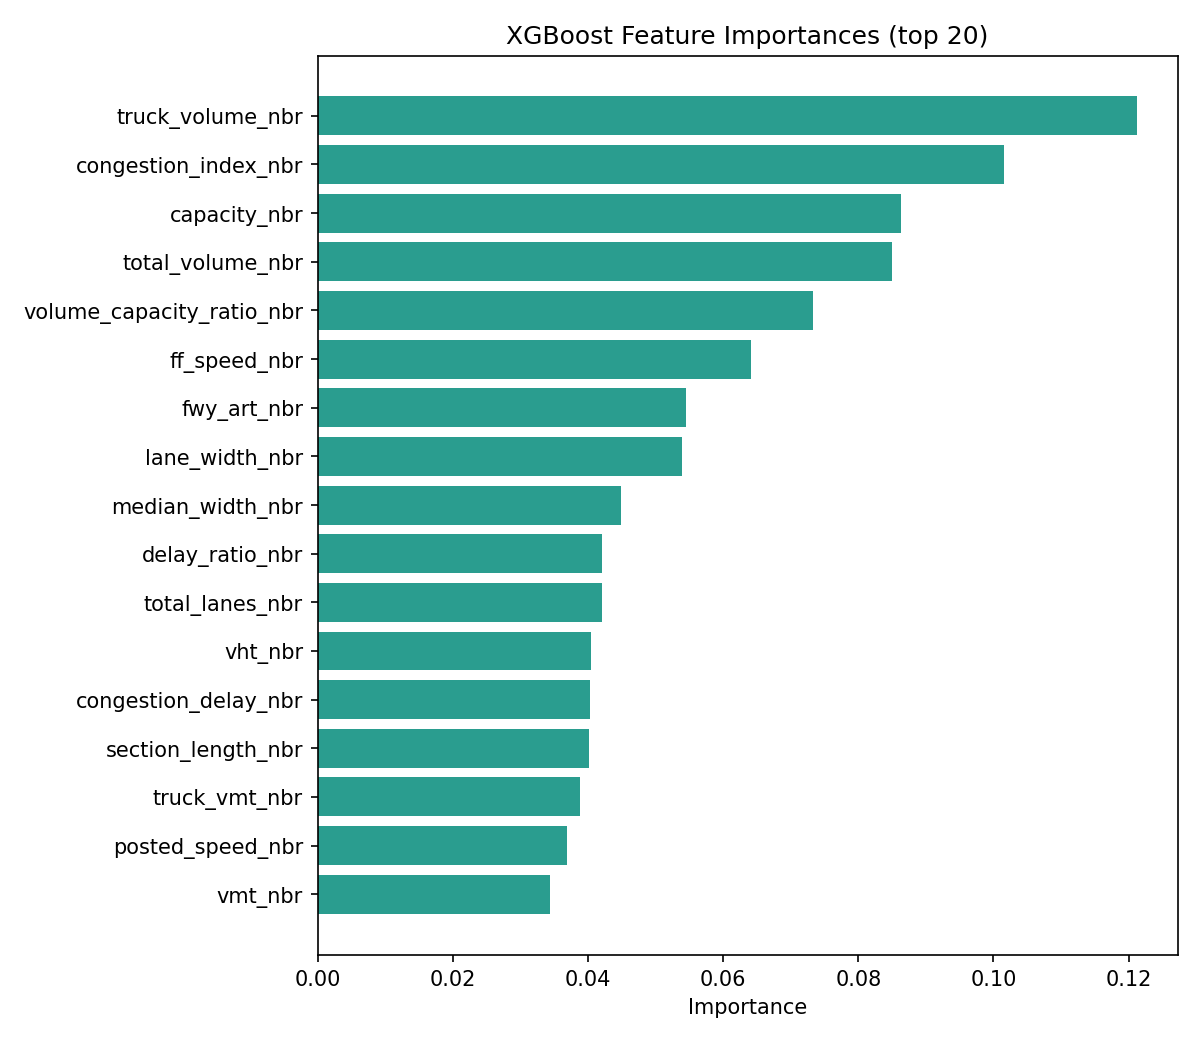
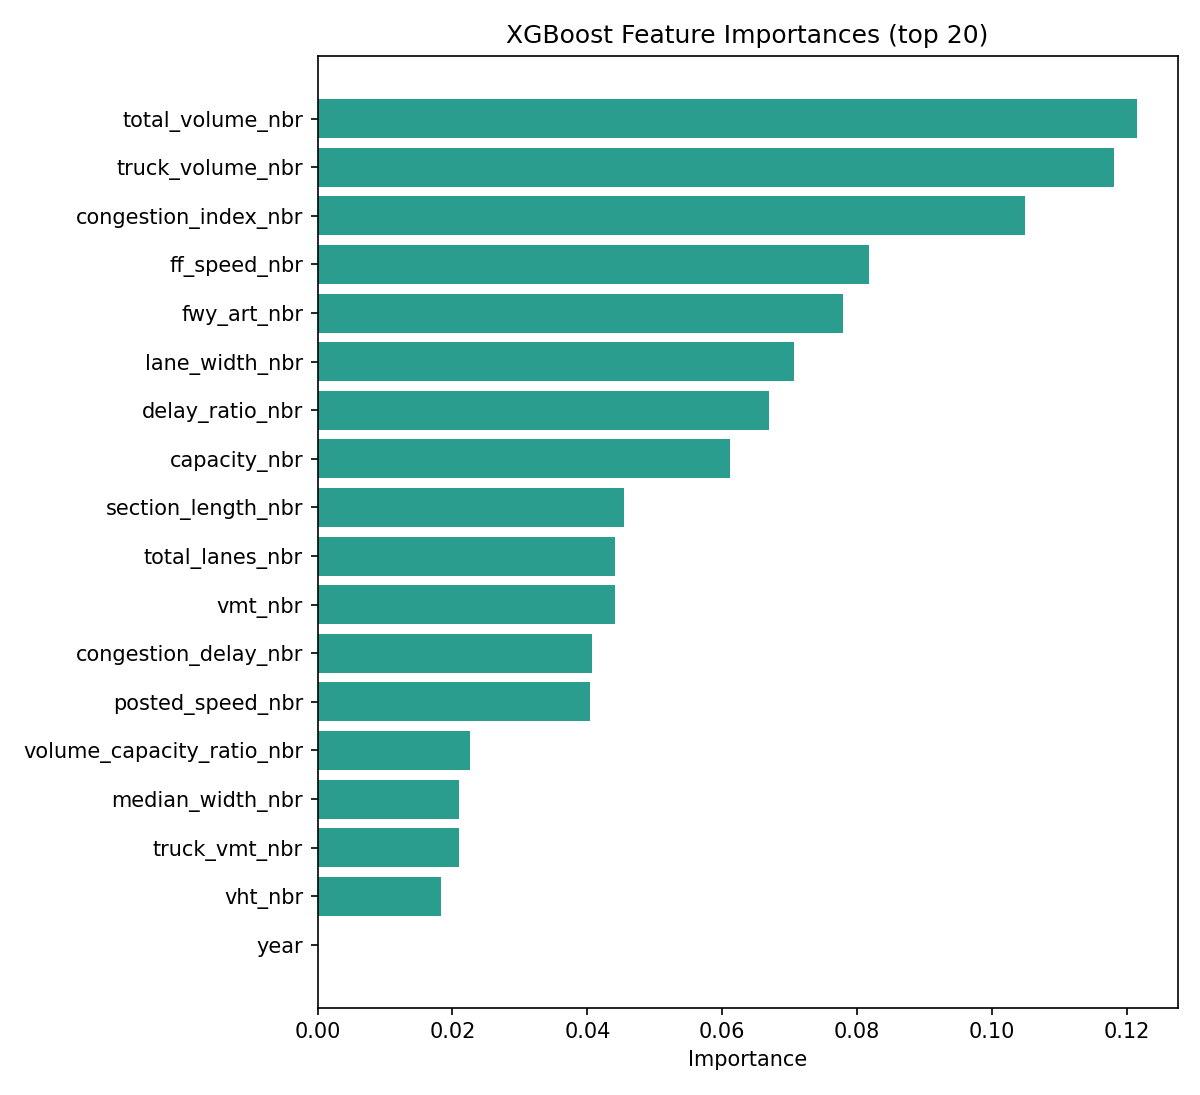
preprocessing: harmonize 2024/2025 schemas via rename_map (district->odot_district, post spd->posted_speed_nbr, etc); predict: robust NA handling; retrain with both sources for district 6 (MAE=0.194, R2=0.858); improved CMS eval (MAE=0.132, R2=0.932)

diff --git a/backend/preprocessing.py b/backend/preprocessing.py
@@ -48,7 +48,36 @@ def clean_data(df: pd.DataFrame, fill_strategy: Optional[str] = "median") -> pd.
     else:
         df.loc[:, numeric_cols] = df.loc[:, numeric_cols].fillna(0)
 
-    # 3. Standardize column names (lowercase, underscores)
+    # 3. Harmonize column names across 2024/2025 schemas before normalization
+    #    Apply a case-insensitive rename using a curated mapping, then normalize.
+    rename_map = {
+        "district": "odot_district",
+        "length": "section_length_nbr",
+        "post spd": "posted_speed_nbr",
+        "ff spd": "ff_speed_nbr",
+        "totlanes": "total_lanes_nbr",
+        "width": "lane_width_nbr",
+        "capacity": "capacity_nbr",
+        "totvolume": "total_volume_nbr",
+        "truckvolume": "truck_volume_nbr",
+        "vmt": "vmt_nbr",
+        "truckvmt": "truck_vmt_nbr",
+        "conindex": "congestion_index_nbr",
+        "cong delay": "congestion_delay_nbr",
+        "delayratio": "delay_ratio_nbr",
+        "cargrowrate": "car_growth_nbr",
+        "truckgrowrate": "truck_growth_nbr",
+    }
+    # Build a mapping from actual column name -> standardized name using lowercase key matching
+    lower_to_actual = {str(c).strip().lower(): c for c in df.columns}
+    actual_renames = {}
+    for k, v in rename_map.items():
+        if k in lower_to_actual:
+            actual_renames[lower_to_actual[k]] = v
+    if actual_renames:
+        df = df.rename(columns=actual_renames)
+
+    # 4. Standardize column names (lowercase, underscores)
     df.columns = [str(col).strip().lower().replace(" ", "_") for col in df.columns]
 
     return df
@@ -151,16 +180,27 @@ def load_all_data(path_or_pattern: str = "backend/data", file_pattern: str = "*.
             df["source_file"] = os.path.basename(f)
         if year_re:
             base = os.path.basename(f)
-            m = year_re.search(base)
+            stem, _ext = os.path.splitext(base)
+            m = year_re.search(stem)
             year_val: Optional[int] = None
             if m:
                 try:
                     year_val = int(m.group(0))
                 except Exception:
                     year_val = None
-            # Fallback: try two-digit year (e.g., "24" -> 2024 based on pivot)
+            # Fallback 1: two-digit year at start of filename (e.g., "24Something.csv")
             if year_val is None:
-                m2 = re.search(r"(?<!\d)(\d{2})(?!\d)", base)
+                m_start = re.match(r"^(\d{2})(?!\d)", stem)
+                if m_start:
+                    try:
+                        yy = int(m_start.group(1))
+                        century = 2000 if yy <= two_digit_year_pivot else 1900
+                        year_val = century + yy
+                    except Exception:
+                        year_val = None
+            # Fallback 2: first standalone two-digit token anywhere
+            if year_val is None:
+                m2 = re.search(r"(?<!\d)(\d{2})(?!\d)", stem)
                 if m2:
                     try:
                         yy = int(m2.group(1))
@@ -170,6 +210,9 @@ def load_all_data(path_or_pattern: str = "backend/data", file_pattern: str = "*.
                         year_val = None
             if year_val is not None:
                 df["year"] = year_val
+            else:
+                # Optional: leave year missing if not inferrable; training can impute or ignore
+                pass
         frames.append(df)
 
     # concat, aligning columns

diff --git a/backend/predict.py b/backend/predict.py
@@ -12,6 +12,7 @@ from typing import Union, Dict, Any
 from sklearn.metrics import mean_absolute_error, r2_score
 
 from backend.preprocessing import get_preprocessed_data, coerce_numeric
+import numpy as np
 
 # Default paths
 MODEL_PATH = "backend/models/traffic_model.pkl"
@@ -55,8 +56,10 @@ def _ensure_feature_columns(df: pd.DataFrame, features: list[str]) -> pd.DataFra
     df = df.copy()
     for col in features:
         if col not in df.columns:
-            df[col] = pd.NA
-    # Order columns to match training order (some estimators care about order)
+            # Use np.nan (not pandas.NA) so sklearn imputers handle it
+            df[col] = np.nan
+    # Replace any pandas.NA with np.nan to be sklearn-friendly
+    df[features] = df[features].replace({pd.NA: np.nan})
     return df
 
 
@@ -101,16 +104,26 @@ def predict_from_csv(input_csv: str, output_csv: str = None, model_path: str = M
     # If 'year' not present, attempt to infer from filename (supports 4-digit or 2-digit years)
     if "year" not in df.columns:
         base = os.path.basename(input_csv)
+        stem, _ext = os.path.splitext(base)
         import re
         year_val = None
-        m = re.search(r"(19|20)\d{2}", base)
+        m = re.search(r"(19|20)\d{2}", stem)
         if m:
             try:
                 year_val = int(m.group(0))
             except Exception:
                 year_val = None
         if year_val is None:
-            m2 = re.search(r"(?<!\d)(\d{2})(?!\d)", base)
+            m_start = re.match(r"^(\d{2})(?!\d)", stem)
+            if m_start:
+                try:
+                    yy = int(m_start.group(1))
+                    pivot = 30
+                    year_val = (2000 if yy <= pivot else 1900) + yy
+                except Exception:
+                    year_val = None
+        if year_val is None:
+            m2 = re.search(r"(?<!\d)(\d{2})(?!\d)", stem)
             if m2:
                 try:
                     yy = int(m2.group(1))
